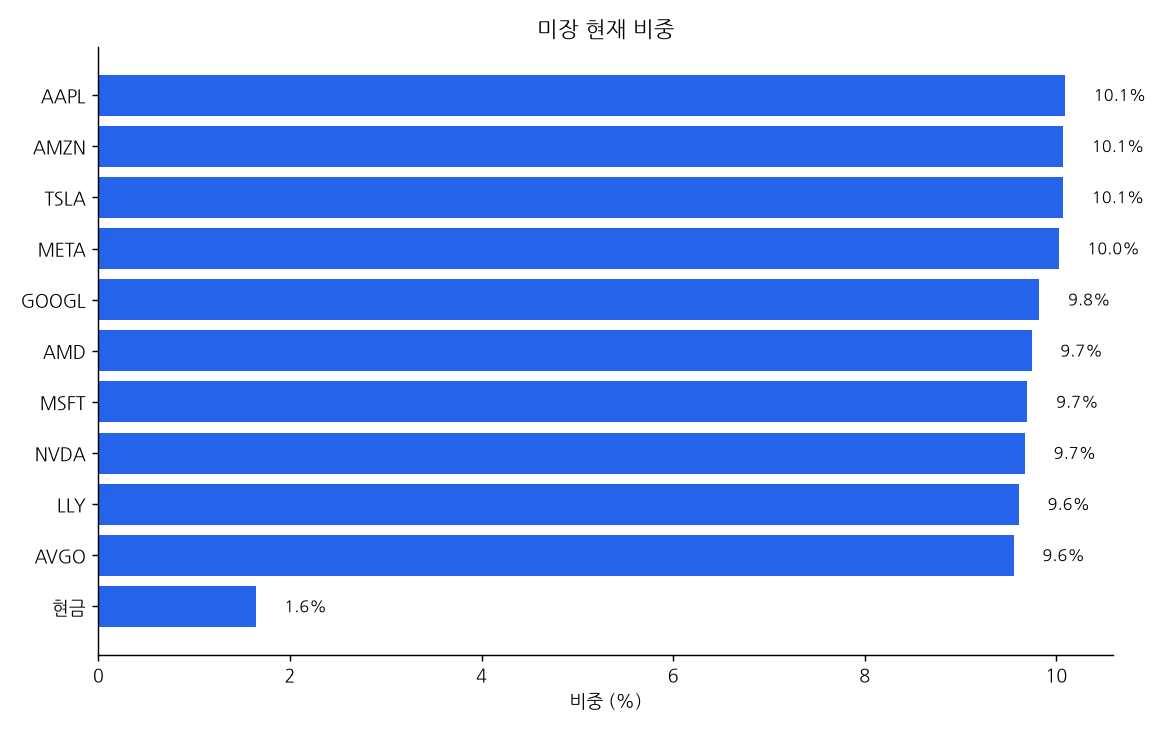
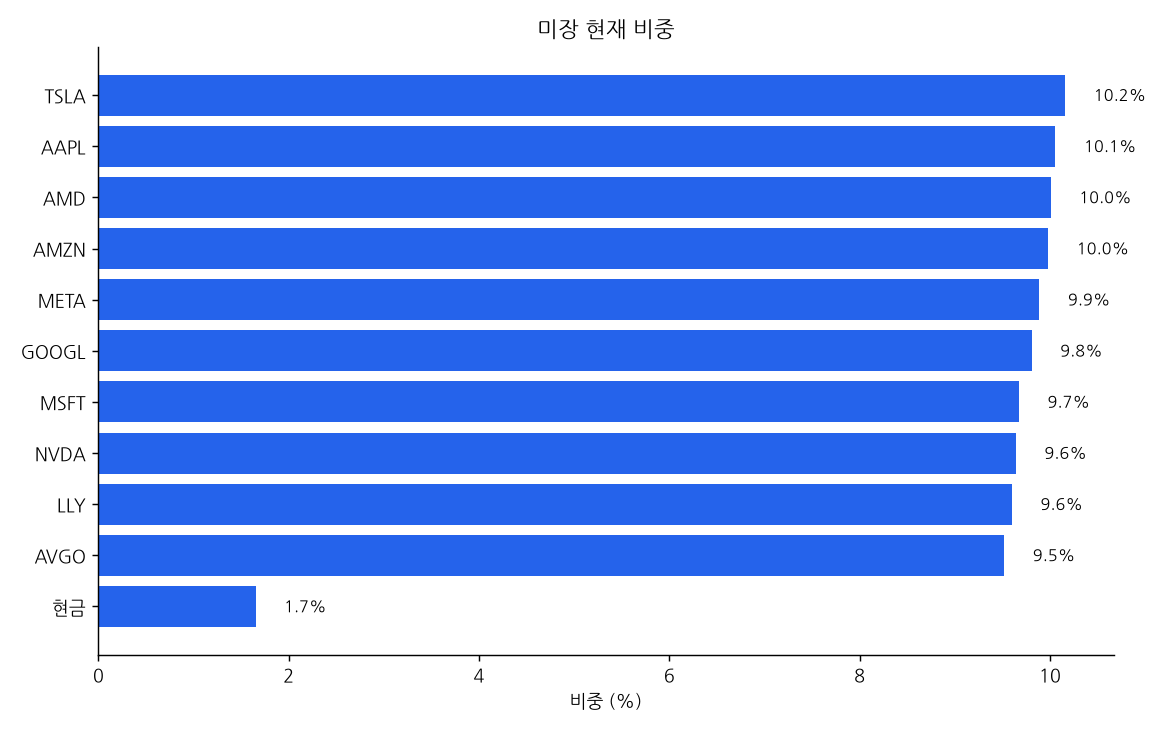
dashboard 2026-11-07 07:30

diff --git a/README.md b/README.md
@@ -1,10 +1,10 @@
 # 📈 내 자동매매 포트폴리오
 
-_마지막 갱신: 2026-11-07 01:06 (KST) · 라즈베리파이 자동 업데이트_
+_마지막 갱신: 2026-11-07 07:30 (KST) · 라즈베리파이 자동 업데이트_
 
 | 트랙 | 시작일 | 누적 수익률 | 비교 지수 | 초과 | 최근 1개월 | 국면 |
 |---|---|---|---|---|---|---|
-| 미장 | 2026-11-05 | **+0.00%** | +0.78% | -0.78% | - | BULL |
+| 미장 | 2026-11-05 | **+0.00%** | +0.31% | -0.31% | - | BULL |
 | 국장 | 2026-11-06 | **+0.00%** | +0.00% | +0.00% | - | BEAR |
 
 ## 미장
@@ -13,17 +13,17 @@ _마지막 갱신: 2026-11-07 01:06 (KST) · 라즈베리파이 자동 업데이
 
 | 종목 | 비중 |
 |---|---|
+| TSLA | 10.2% |
 | AAPL | 10.1% |
-| AMZN | 10.1% |
-| TSLA | 10.1% |
-| META | 10.0% |
+| AMD | 10.0% |
+| AMZN | 10.0% |
+| META | 9.9% |
 | GOOGL | 9.8% |
-| AMD | 9.7% |
 | MSFT | 9.7% |
-| NVDA | 9.7% |
+| NVDA | 9.6% |
 | LLY | 9.6% |
-| AVGO | 9.6% |
-| 현금 | 1.6% |
+| AVGO | 9.5% |
+| 현금 | 1.7% |
 
 ![미장 비중](charts/us_weights.png)
 
@@ -33,15 +33,15 @@ _마지막 갱신: 2026-11-07 01:06 (KST) · 라즈베리파이 자동 업데이
 
 | 종목 | 비중 |
 |---|---|
-| KODEX 단기채권 | 48.8% |
-| 현금 | 14.2% |
-| 신한지주 | 5.1% |
-| 현대모비스 | 5.0% |
-| 삼성SDI | 5.0% |
-| 하나금융지주 | 4.9% |
-| SK스퀘어 | 4.8% |
-| 셀트리온 | 4.7% |
-| 삼성물산 | 4.6% |
+| KODEX 단기채권 | 49.6% |
+| 현금 | 14.4% |
+| 신한지주 | 5.0% |
+| 하나금융지주 | 5.0% |
+| 현대모비스 | 4.9% |
+| 삼성SDI | 4.7% |
+| 셀트리온 | 4.6% |
+| 삼성물산 | 4.4% |
+| SK스퀘어 | 4.3% |
 | 삼성바이오로직스 | 3.0% |
 
 ![국장 비중](charts/kr_weights.png)
